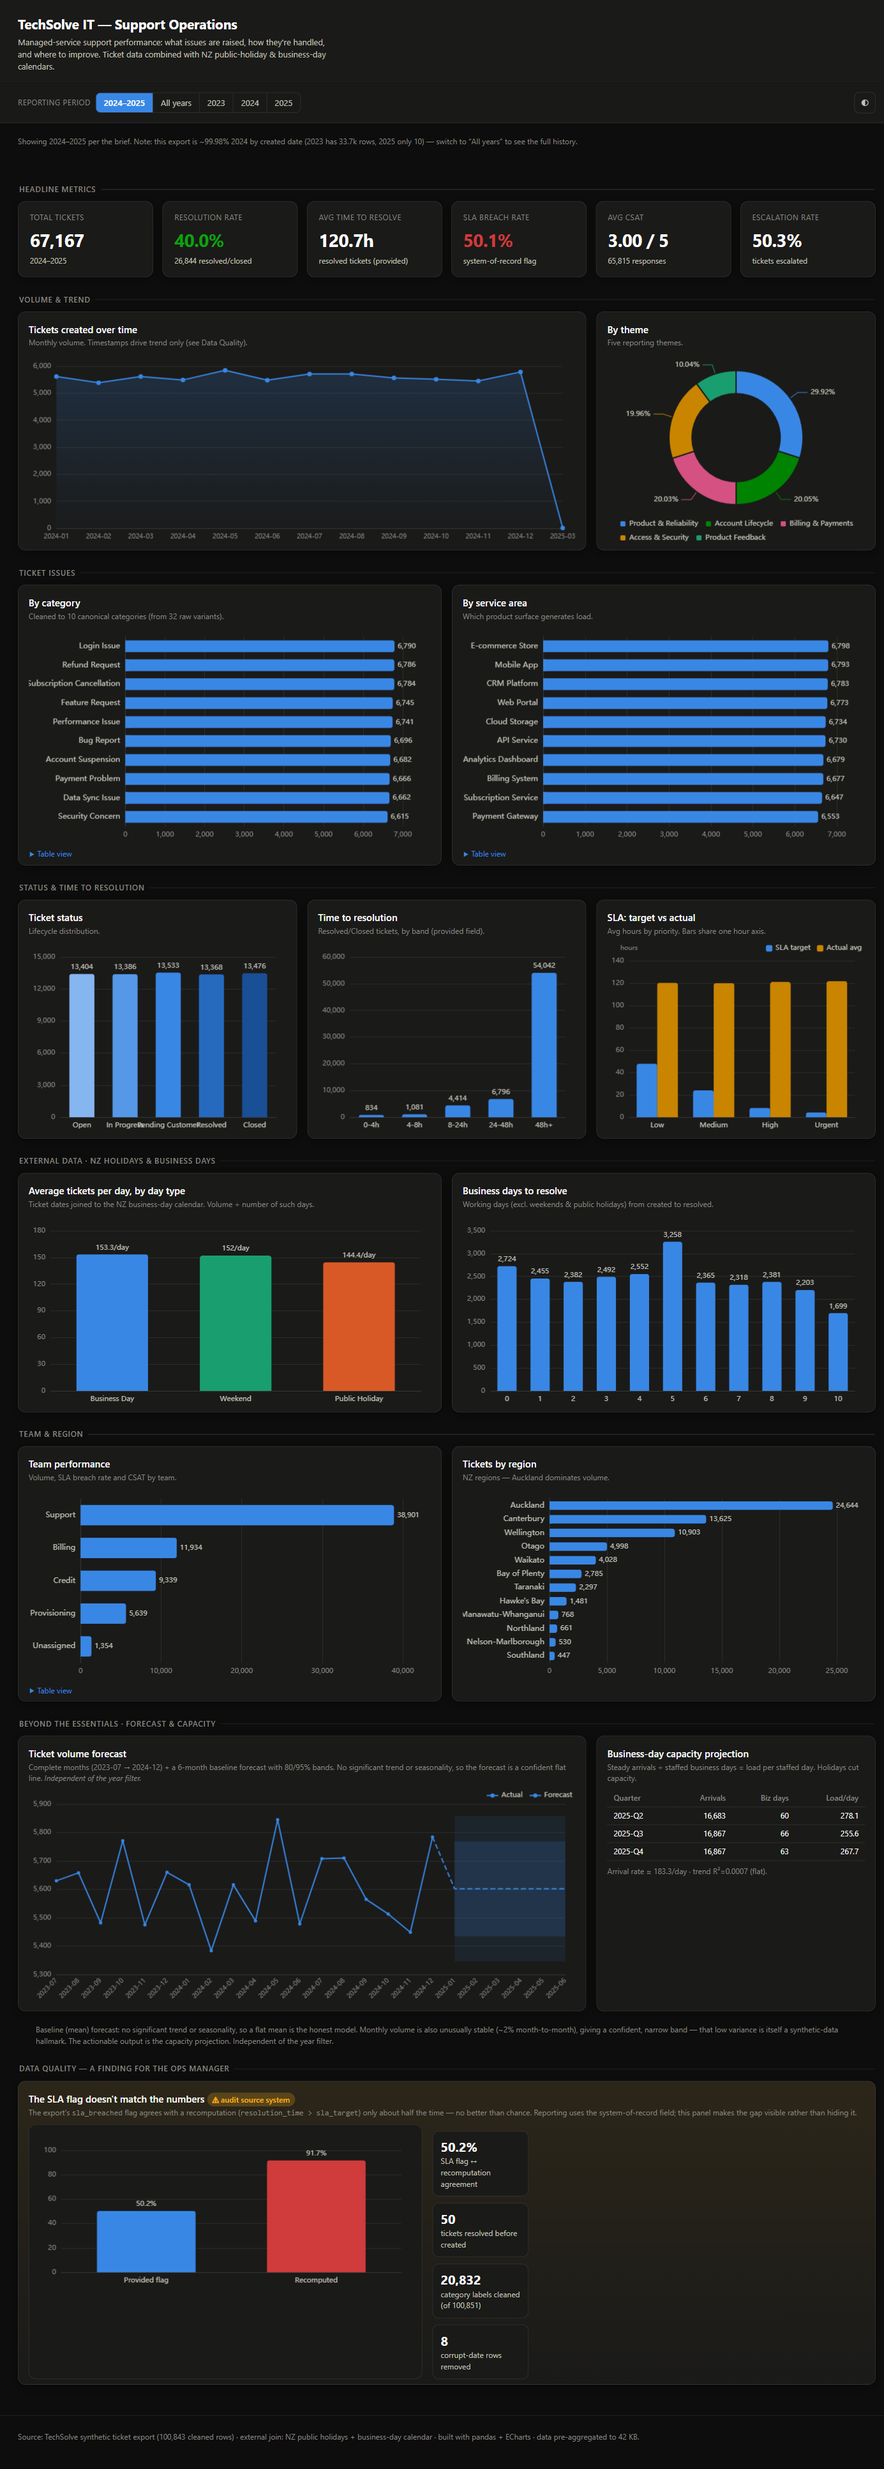
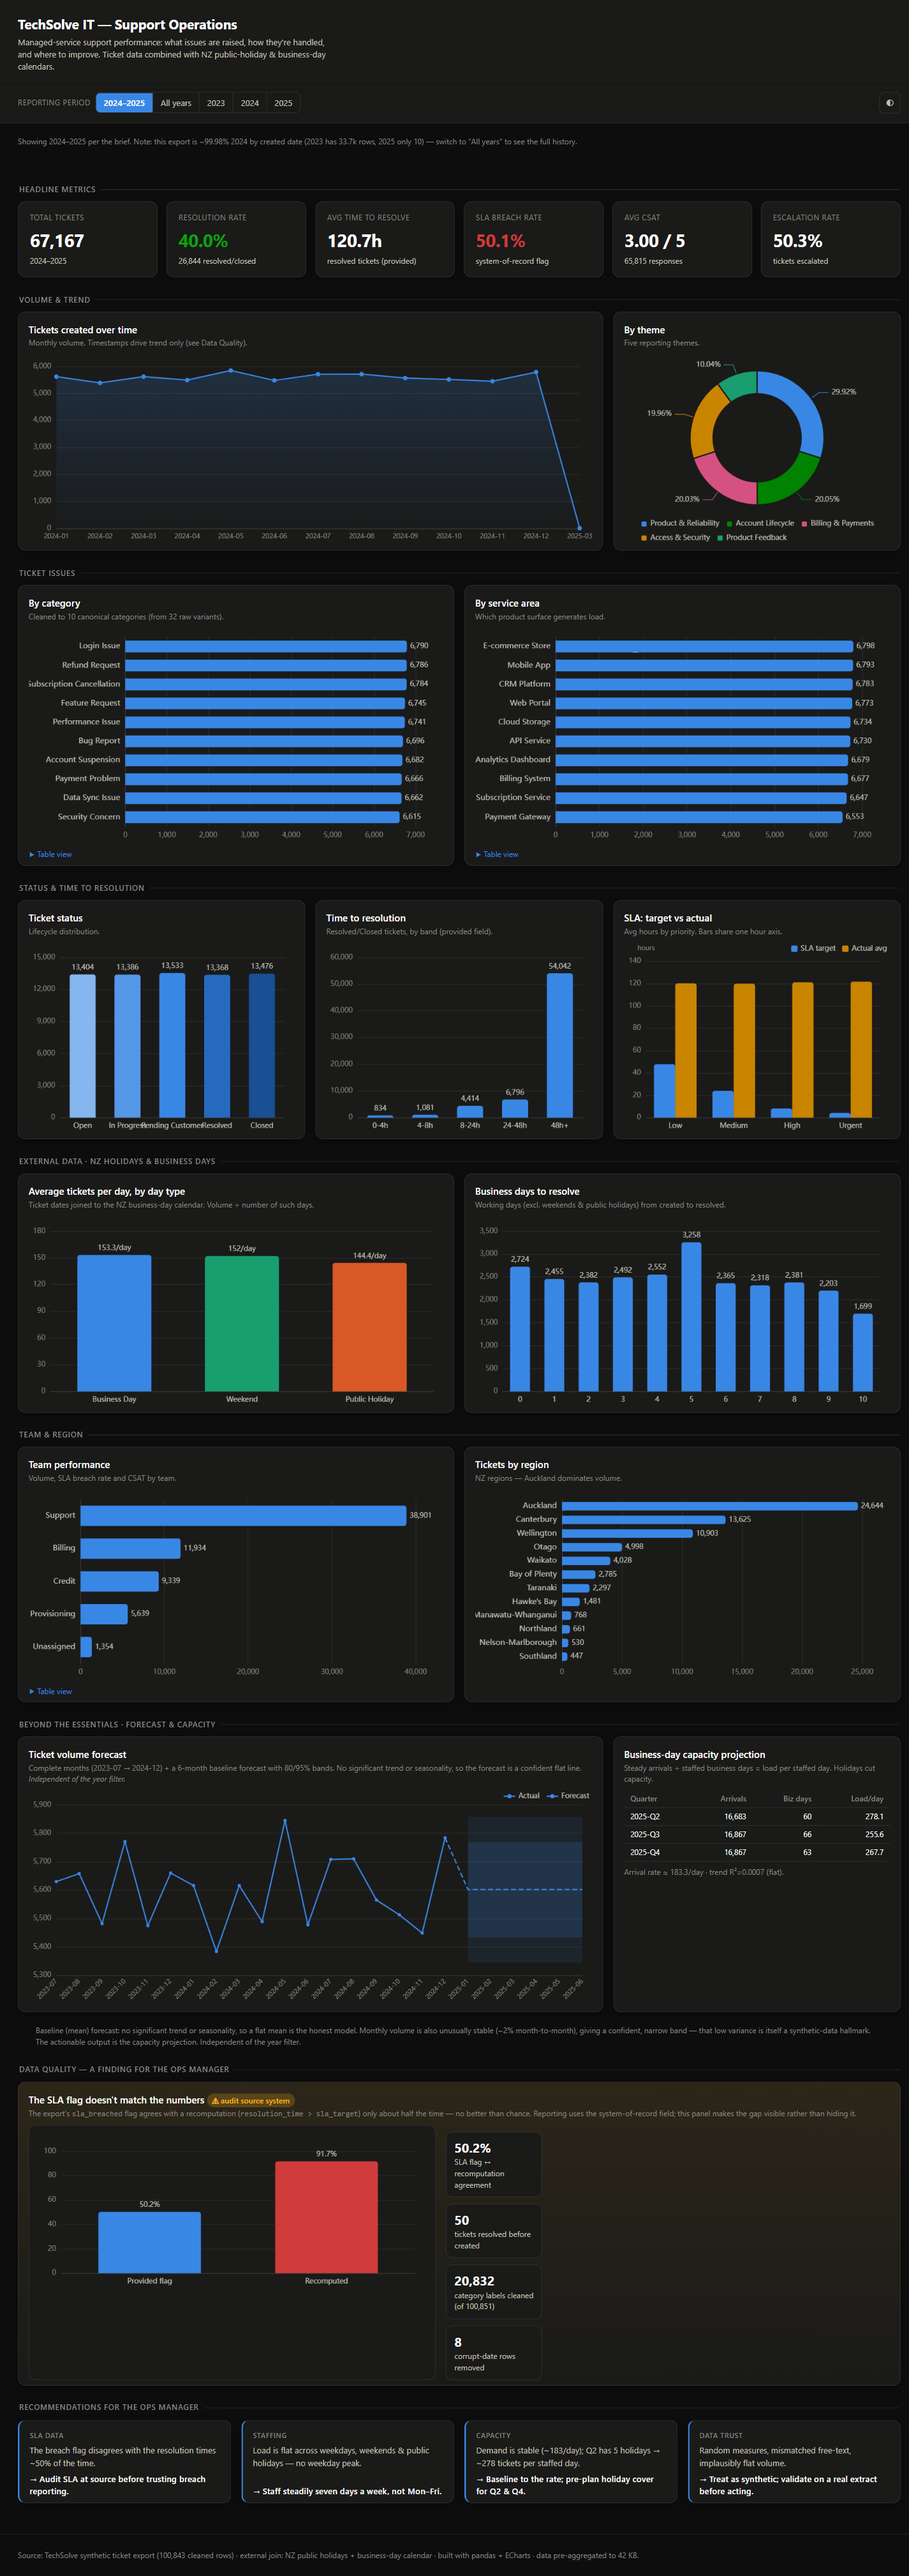
feat: insights brief + dashboard recommendations
- docs/INSIGHTS.md: findings -> so-what -> recommendation -> impact (ops-manager brief).
- dashboard: 'Recommendations for the ops manager' callout (4 action cards after the
  data-quality panel); refreshed light/dark screenshots.
- README: docs index.

diff --git a/dashboard_web/index.html b/dashboard_web/index.html
@@ -144,6 +144,29 @@
         </div>
       </div>
     </div>
+    <div class="section-title">Recommendations for the ops manager</div>
+    <div class="grid">
+      <div class="card col-3 rec">
+        <div class="rec-tag">SLA data</div>
+        <div class="rec-find">The breach flag disagrees with the resolution times ~50% of the time.</div>
+        <div class="rec-act">→ Audit SLA at source before trusting breach reporting.</div>
+      </div>
+      <div class="card col-3 rec">
+        <div class="rec-tag">Staffing</div>
+        <div class="rec-find">Load is flat across weekdays, weekends &amp; public holidays — no weekday peak.</div>
+        <div class="rec-act">→ Staff steadily seven days a week, not Mon–Fri.</div>
+      </div>
+      <div class="card col-3 rec">
+        <div class="rec-tag">Capacity</div>
+        <div class="rec-find">Demand is stable (~183/day); Q2 has 5 holidays → ~278 tickets per staffed day.</div>
+        <div class="rec-act">→ Baseline to the rate; pre-plan holiday cover for Q2 &amp; Q4.</div>
+      </div>
+      <div class="card col-3 rec">
+        <div class="rec-tag">Data trust</div>
+        <div class="rec-find">Random measures, mismatched free-text, implausibly flat volume.</div>
+        <div class="rec-act">→ Treat as synthetic; validate on a real extract before acting.</div>
+      </div>
+    </div>
   </main>
 
   <footer id="footer"></footer>

diff --git a/dashboard_web/styles.css b/dashboard_web/styles.css
@@ -118,6 +118,7 @@ main { padding: 20px 28px 48px; max-width: 1500px; margin: 0 auto; }
 }
 .card h3 { margin: 0 0 2px; font-size: 15px; font-weight: 620; }
 .card .hint { margin: 0 0 8px; font-size: 12px; color: var(--muted); }
+.card.col-3 { grid-column: span 3; }
 .card.col-4 { grid-column: span 4; }
 .card.col-6 { grid-column: span 6; }
 .card.col-8 { grid-column: span 8; }
@@ -126,8 +127,17 @@ main { padding: 20px 28px 48px; max-width: 1500px; margin: 0 auto; }
 .chart.tall { height: 340px; }
 .chart.short { height: 240px; }
 @media (max-width: 1080px) {
-  .card.col-4, .card.col-6, .card.col-8 { grid-column: span 12; }
+  .card.col-3, .card.col-4, .card.col-6, .card.col-8 { grid-column: span 12; }
 }
+@media (min-width: 1081px) and (max-width: 1320px) {
+  .card.col-3 { grid-column: span 6; }
+}
+
+/* ---- recommendations callout ---- */
+.rec { display: flex; flex-direction: column; gap: 6px; border-left: 3px solid var(--accent); }
+.rec-tag { font-size: 11px; text-transform: uppercase; letter-spacing: .05em; color: var(--muted); font-weight: 600; }
+.rec-find { font-size: 13px; color: var(--ink-2); }
+.rec-act { font-size: 13.5px; font-weight: 620; color: var(--ink); margin-top: auto; }
 
 /* ---- DQ panel ---- */
 .dq { background: linear-gradient(180deg, color-mix(in srgb, var(--warning) 8%, var(--surface)), var(--surface)); }

diff --git a/docs/INSIGHTS.md b/docs/INSIGHTS.md
@@ -1,0 +1,62 @@
+# Insights & Recommendations — for the Operations Manager
+
+A one-page brief that turns the analysis into **decisions**. Each item is a finding, why it matters,
+and what to do about it. (Numbers are reproducible from the pipeline; see `DATA_QUALITY_REPORT.md`.)
+
+> **Executive summary.** Support demand is stable and predictable, so this is a *capacity-planning*
+> problem, not a demand-volatility one — the lever is staffing steadily against a known rate, with
+> extra cover around public holidays. But before trusting any performance number, **the SLA data needs
+> auditing**: the system's breach flag disagrees with the underlying resolution times about half the
+> time. Several signals also indicate this export is synthetic, so treat the *methods* as the
+> deliverable and re-validate against a real extract before acting operationally.
+
+---
+
+### 1. Your SLA breach flag can't be trusted yet — audit it
+- **Finding:** the provided `sla_breached` flag reports a **50.2%** breach rate, but recomputing breach
+  from resolution time vs. the SLA target gives **91.7%** — and the two agree only **~50%** of the time
+  (no better than a coin flip). 50 tickets are even marked resolved *before* they were created.
+- **So what:** your headline SLA performance is effectively **unverified**. If SLA breaches drive
+  customer credits, penalties, or team KPIs, the reported figure — and its financial exposure — could be
+  materially wrong in either direction.
+- **Recommendation:** reconcile the SLA calculation at source (does the flag use business hours? a
+  different clock? a manual override?). Until it reconciles, report the system-of-record figure **with a
+  data-quality caveat**, not as fact. *(The dashboard's Data-Quality panel shows the gap explicitly.)*
+
+### 2. Support load is flat all week — staff seven days, not five
+- **Finding:** ticket arrivals are roughly the same on **business days, weekends, and public holidays**
+  (~150–184/day for each) — there is no weekday peak.
+- **So what:** a weekday-heavy roster would build a weekend/holiday backlog that spills into Monday.
+- **Recommendation:** move to **steady seven-day coverage** (or clear weekend/after-hours capacity)
+  rather than a Monday–Friday model.
+
+### 3. Demand is predictable — plan capacity, don't forecast surges
+- **Finding:** monthly volume is stable (~5,600/month, ~183/day) with **no trend and no seasonality**
+  (trend R² = 0.0007). Next quarters project to ~**16,700 arrivals** each.
+- **So what:** this is a **capacity-planning** problem, not a demand-volatility one — you don't need a
+  demand-forecasting model, you need the right baseline headcount.
+- **Recommendation:** baseline-staff to the known rate, then adjust for **staffed business days**:
+  **2025-Q2 is the tightest** — 5 public holidays leave ~60 staffed days for ~16,700 tickets
+  (**~278/staffed-day**) vs. ~256/day in Q3. **Pre-plan holiday cover for Q2 and Q4.**
+
+### 4. No single problem area dominates — balance, and watch for drift
+- **Finding:** the 10 issue categories are almost evenly split (~10,000 tickets each across 5 themes).
+- **So what:** there's no one hotspot to throw resources at; effort should be balanced across themes.
+- **Recommendation:** in production, track category **share over time** and target whichever *grows* —
+  the even split here is itself a sign of synthetic data (see §5), so don't read priorities into it.
+
+### 5. Treat this dataset as synthetic — validate before acting
+- **Finding:** three independent signals say the data is machine-generated, not a real export:
+  measure fields are internally random (resolution time is uncorrelated with the timestamps), the
+  free-text fields don't match their categories, and monthly volume is *statistically implausibly*
+  flat for a real support queue.
+- **So what:** conclusions drawn *from the values* won't transfer; the **approach** (cleaning rules,
+  model, agent, capacity method) is what transfers.
+- **Recommendation:** re-run this pipeline against a **real** ticket extract before making operational
+  decisions; the code is built to do exactly that.
+
+---
+
+**Bottom line for the manager:** fix the SLA data, staff to a steady seven-day baseline with holiday
+cover, and don't over-invest in demand forecasting — the demand is already predictable; the uncertainty
+is in the *data quality*, not the *demand*.

diff --git a/README.md b/README.md
@@ -75,5 +75,11 @@ python src/forecast.py              # forecast + capacity projection (forecast.j
 # then: open dashboard_web/index.html   ·   streamlit run agent/app.py
 ```
 
-## Review
-The required written review is in [`docs/REVIEW.md`](docs/REVIEW.md).
+## Documentation (`docs/`)
+- [`REVIEW.md`](docs/REVIEW.md) — the required written review (6 questions).
+- [`INSIGHTS.md`](docs/INSIGHTS.md) — findings → recommendations brief for the ops manager.
+- [`DATA_QUALITY_REPORT.md`](docs/DATA_QUALITY_REPORT.md) — every cleaning transformation, with counts.
+- [`FORECAST_METHODOLOGY.md`](docs/FORECAST_METHODOLOGY.md) — forecast + capacity method.
+- [`DECISION_LOG.md`](docs/DECISION_LOG.md) — every decision and why.
+- [`DESIGN.md`](docs/DESIGN.md) · [`WALKTHROUGH.md`](docs/WALKTHROUGH.md) · [`INTERVIEW_PREP.md`](docs/INTERVIEW_PREP.md) · [`DEMO_SCRIPT.md`](docs/DEMO_SCRIPT.md) — plan, plain-English walkthrough, Q&A study sheet, demo storyboard.
+- `screenshots/` — dashboard (light/dark), agent, and `demo.gif`.
